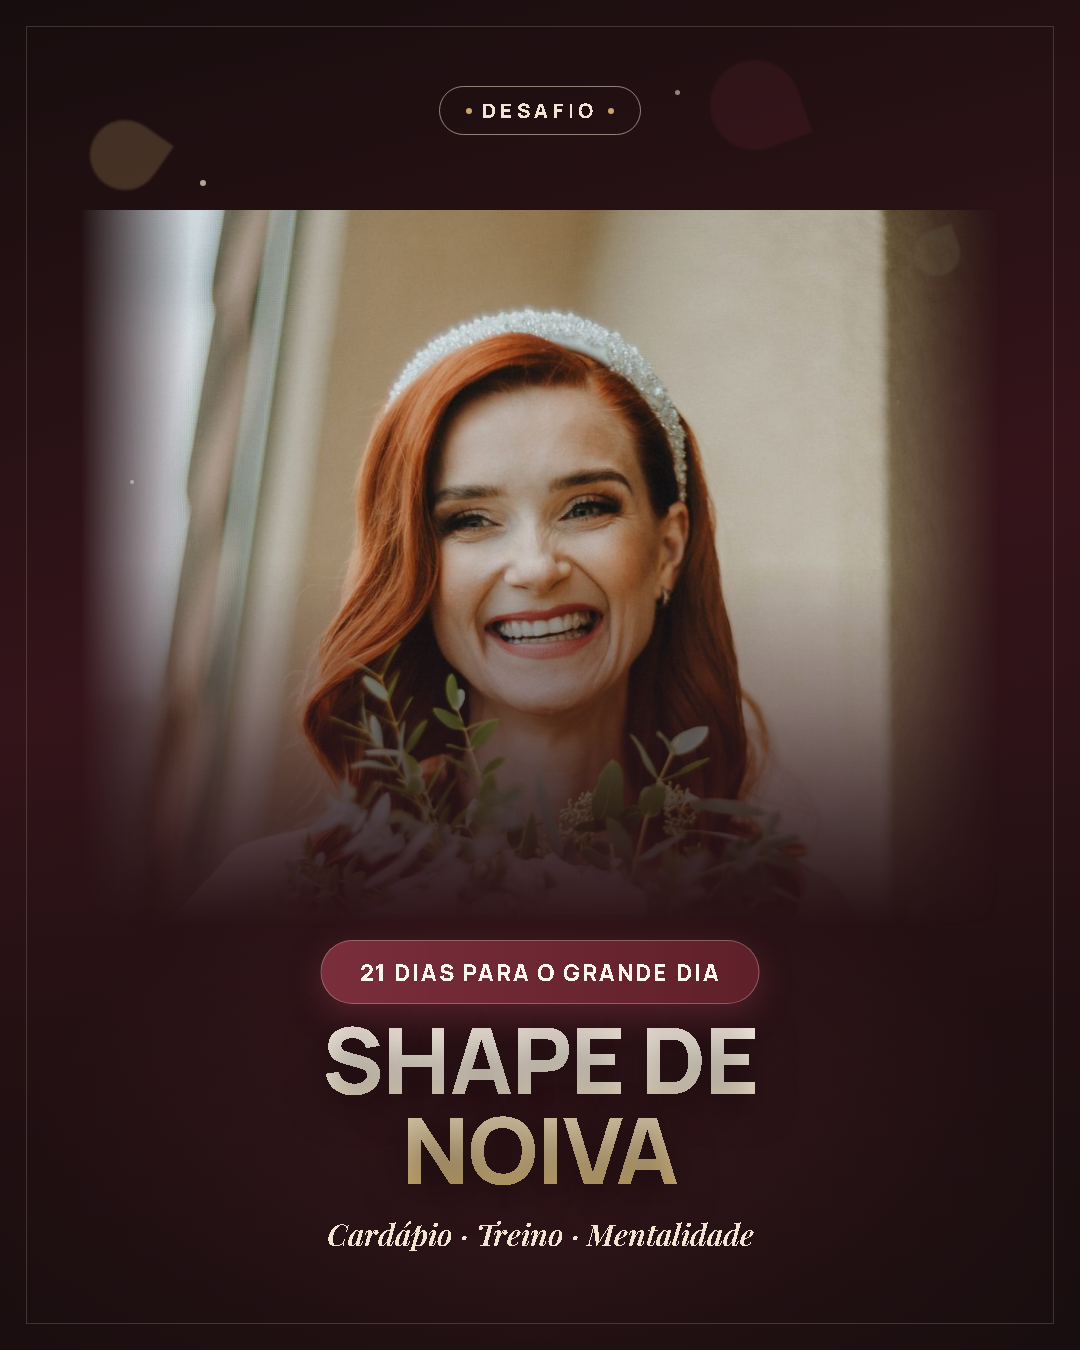
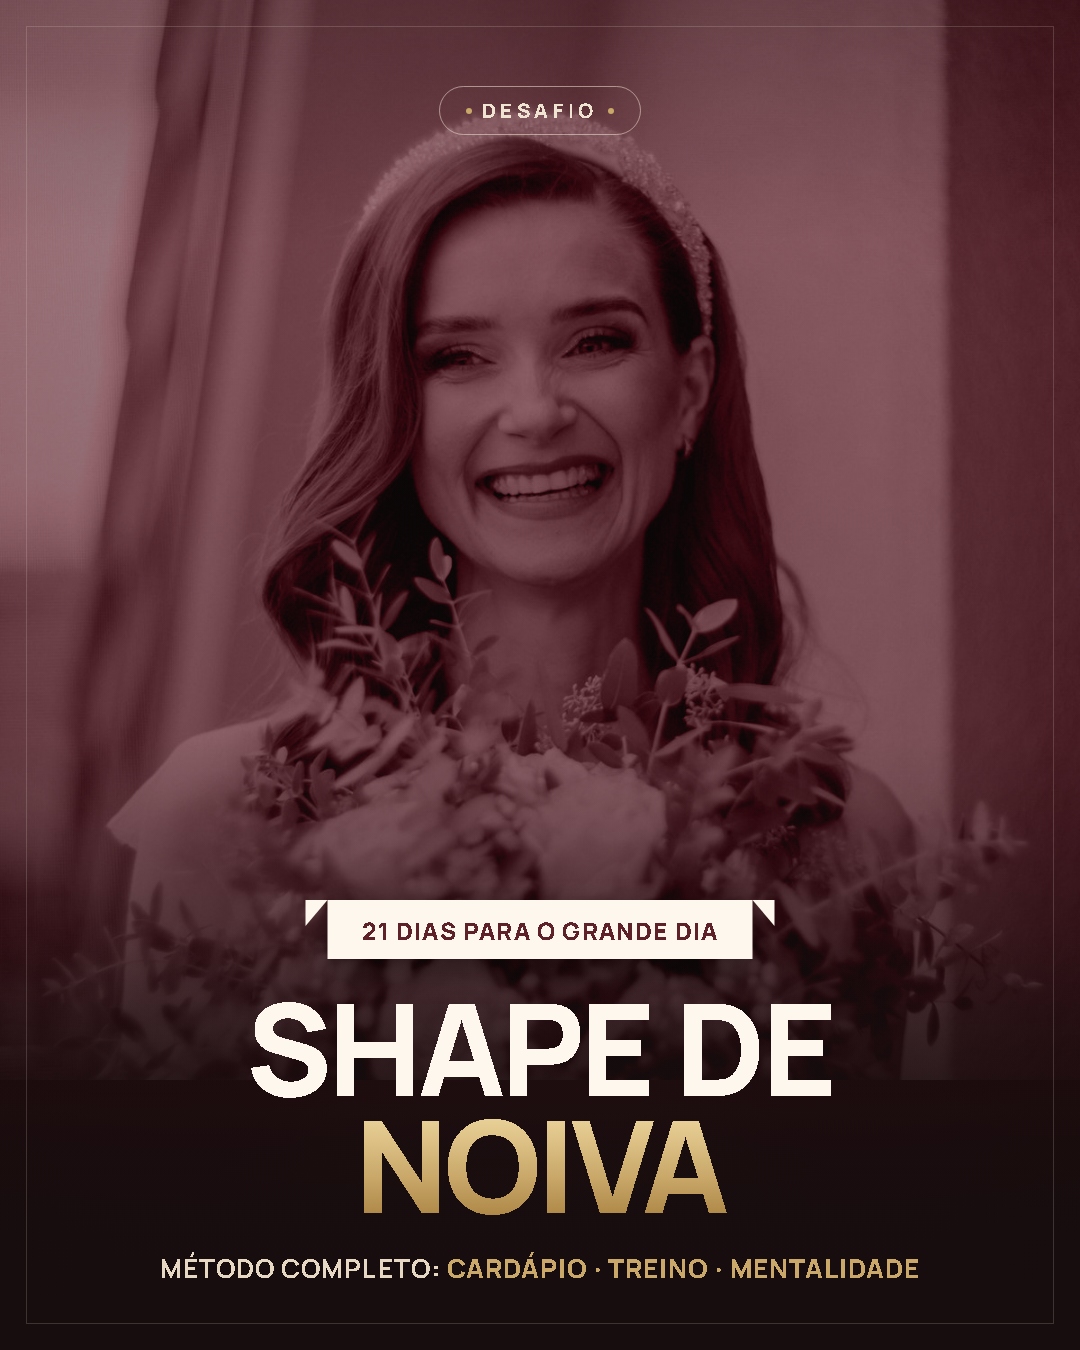
fix(desafio-shape-noiva): capa refeita com tratamento duotone/poster (curso, nao ebook)

diff --git a/mockups/capa-produto.html b/mockups/capa-produto.html
@@ -41,70 +41,81 @@
   .eyebrow::before,.eyebrow::after{content:"";width:6px;height:6px;background:#c9a86a;border-radius:50%;}
 
   .photo-wrap{
-    position:absolute;left:50%;top:210px;transform:translateX(-50%);
-    width:920px;height:780px;z-index:2;
+    position:absolute;left:0;top:0;width:1080px;height:1080px;z-index:1;overflow:hidden;
   }
   .photo-wrap img{
-    width:100%;height:100%;object-fit:cover;object-position:50% 22%;
-    -webkit-mask-image:
-      linear-gradient(to bottom, black 45%, transparent 92%),
-      linear-gradient(to right, transparent 0%, black 12%, black 88%, transparent 100%);
-    -webkit-mask-composite:source-in;
-            mask-image:
-      linear-gradient(to bottom, black 45%, transparent 92%),
-      linear-gradient(to right, transparent 0%, black 12%, black 88%, transparent 100%);
-            mask-composite:intersect;
+    width:100%;height:100%;object-fit:cover;object-position:50% 30%;
+    filter:grayscale(1) contrast(1.15) brightness(.9);
+  }
+  .duotone{
+    position:absolute;inset:0;z-index:2;
+    background:#7a2e3b;
+    mix-blend-mode:color;
+  }
+  .duotone-multiply{
+    position:absolute;inset:0;z-index:2;
+    background:linear-gradient(180deg, rgba(23,13,14,0.42) 0%, rgba(23,13,14,0.5) 55%, rgba(23,13,14,0.97) 92%);
+  }
+  .photo-fade-bottom{
+    position:absolute;left:0;right:0;bottom:0;height:420px;z-index:3;
+    background:linear-gradient(180deg, transparent 0%, #170d0e 88%);
   }
 
   .badge-duration{
-    position:absolute;top:940px;left:50%;transform:translateX(-50%);z-index:6;
-    background:linear-gradient(90deg,#7a2e3b,#5e2029);color:#fdf7ee;
-    font-weight:800;font-size:23px;letter-spacing:.08em;white-space:nowrap;
-    padding:15px 38px;border-radius:99px;box-shadow:0 10px 30px rgba(122,46,59,0.5);
-    border:1.5px solid rgba(240,228,211,0.3);
+    position:absolute;top:900px;left:50%;transform:translateX(-50%);z-index:6;
+    background:#fdf7ee;color:#5e2029;
+    font-weight:800;font-size:24px;letter-spacing:.05em;white-space:nowrap;
+    padding:14px 34px 12px;box-shadow:0 12px 30px rgba(0,0,0,0.4);
   }
+  .badge-duration::before, .badge-duration::after{
+    content:"";position:absolute;top:0;width:0;height:0;
+    border-top:26px solid #fdf7ee;
+  }
+  .badge-duration::before{left:-22px;border-right:22px solid transparent;}
+  .badge-duration::after{right:-22px;border-left:22px solid transparent;}
 
   .title-wrap{
-    position:absolute;left:0;right:0;bottom:96px;z-index:5;text-align:center;padding:0 50px;
+    position:absolute;left:0;right:0;bottom:64px;z-index:5;text-align:center;padding:0 30px;
   }
   .title{
-    font-family:'Manrope',sans-serif;font-weight:800;font-size:92px;line-height:.98;
-    letter-spacing:-.01em;text-transform:uppercase;
-    background:linear-gradient(180deg,#fdf7ee 0%,#f0e4d3 35%,#c9a86a 100%);
-    -webkit-background-clip:text;background-clip:text;color:transparent;
-    text-shadow:0 8px 40px rgba(0,0,0,0.5);
+    font-family:'Manrope',sans-serif;font-weight:800;font-size:128px;line-height:.92;
+    letter-spacing:-.03em;text-transform:uppercase;color:#fdf7ee;
     text-wrap:balance;
   }
-  .subtitle{
-    margin-top:20px;font-family:'Playfair Display',serif;font-style:italic;font-weight:600;
-    font-size:30px;color:#f0e4d3;
+  .title .accent{
+    background:linear-gradient(180deg,#f0d9a0 0%,#c9a86a 60%,#a8813f 100%);
+    -webkit-background-clip:text;background-clip:text;color:transparent;
+    display:block;
   }
+  .subtitle{
+    margin-top:26px;font-family:'Manrope',sans-serif;font-weight:700;
+    font-size:26px;letter-spacing:.04em;color:#e6d8c3;text-transform:uppercase;
+  }
+  .subtitle b{color:#c9a86a;}
 
-  .vignette{position:absolute;inset:0;z-index:3;
-    background:linear-gradient(180deg, rgba(23,13,14,0) 52%, rgba(23,13,14,0.4) 78%, rgba(23,13,14,0.78) 100%);
-    pointer-events:none;
+  .vignette{position:absolute;inset:0;z-index:3;pointer-events:none;
+    background:linear-gradient(180deg, rgba(23,13,14,0.25) 0%, transparent 18%);
   }
   .frame{position:absolute;inset:26px;border:1.5px solid rgba(240,228,211,0.18);z-index:7;pointer-events:none;}
 </style>
 </head>
 <body>
 <div class="cover">
-  <div class="petal p1"></div><div class="petal p2"></div><div class="petal p3"></div><div class="petal p4"></div>
-  <div class="sparkle s1"></div><div class="sparkle s2"></div><div class="sparkle s3"></div><div class="sparkle s4"></div>
-
-  <div class="eyebrow-wrap"><div class="eyebrow">Desafio</div></div>
-
   <div class="photo-wrap">
     <img src="images/noiva-buque-sorrindo.jpg" alt="Noiva feliz">
   </div>
-
+  <div class="duotone"></div>
+  <div class="duotone-multiply"></div>
+  <div class="photo-fade-bottom"></div>
   <div class="vignette"></div>
+
+  <div class="eyebrow-wrap"><div class="eyebrow">Desafio</div></div>
 
   <div class="badge-duration">21 DIAS PARA O GRANDE DIA</div>
 
   <div class="title-wrap">
-    <div class="title">Shape de<br>Noiva</div>
-    <div class="subtitle">Cardápio · Treino · Mentalidade</div>
+    <div class="title">Shape de<span class="accent">Noiva</span></div>
+    <div class="subtitle">Método completo: <b>Cardápio · Treino · Mentalidade</b></div>
   </div>
 
   <div class="frame"></div>
